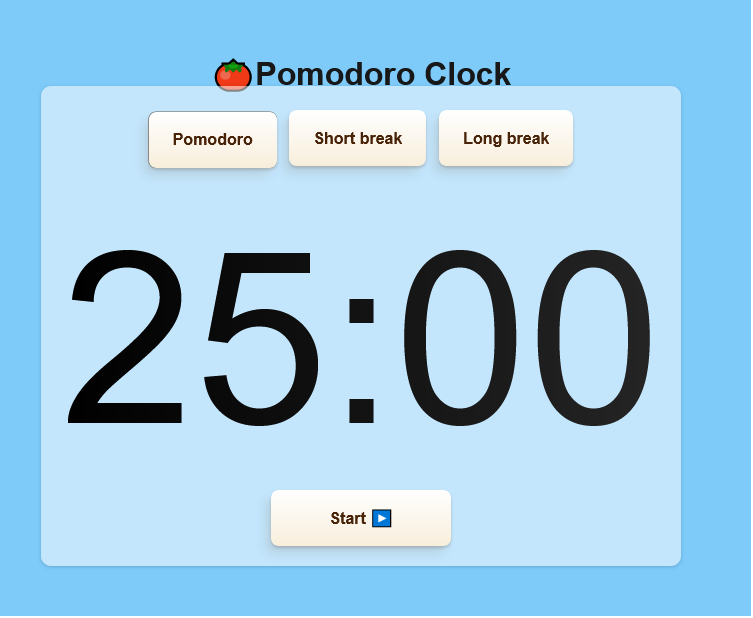
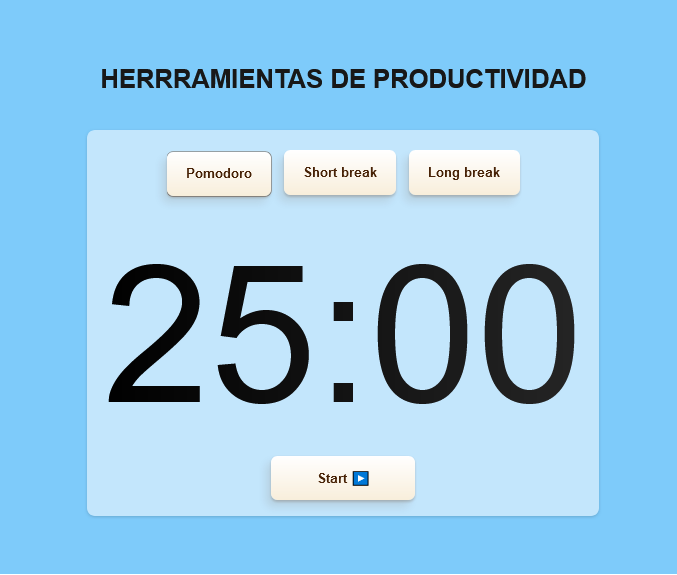
modificados codigos

diff --git a/styles_pomodoro.css b/styles_pomodoro.css
@@ -1,5 +1,22 @@
 
 
+html {
+  background:black;
+  background-image: url(https://img.freepik.com/vector-gratis/vector-fondo-hermoso-textura-acuarela-amarillo-suave-moderno_1055-12605.jpg?w=2000);
+  background-repeat: no-repeat;
+  background-size: cover;
+  min-height: 100vh;
+}
+
+
+body {
+  background-color: black;
+  font-family: Arial, Helvetica, sans-serif;
+  display: flex;
+
+}
+
+
 :root {
   --pomodoro: #7ecbfa;
   --shortBreak: #fadbaf;
@@ -126,80 +143,6 @@
   display: none;
 }
 
-
-@media screen and (max-width: 664px) {
-  .clock {
-    font-size: 8rem;
-    margin-top: 10px;
-    margin-bottom: 10px;
-  }
-
-  .main-button {
-    width: auto;
-  }
-
-  .main-headline {
-    top: 20%;
-    font-size: 25px;
-    width: 70%;
-  }
-
-  .sub-headline {
-    top: 26%;
-  }
-}
-
-@media screen and (max-width: 375px) {
-  .main-headline {
-    top: 10%;
-    font-size: 20px;
-    width: 70%;
-  }
-
-  .sub-headline {
-    top: 10%;
-  }
-
-  .clock {
-    margin-top: 10px;
-    margin-bottom: 10px;
-  }
-
-  .timer {
-    top: 50%;
-  }
-}
-
-
-@media screen and (max-width: 390px) {
-  .main-headline {
-    font-size: 20px;
-    width: 70%;
-    top: 15%;
-  }
-
-  .sub-headline {
-    top: 28%;
-  }
-
-  .clock {
-    margin-top: 10px;
-    margin-bottom: 10px;
-  }
-
-  .timer {
-    top: 60%;
-  }
-
-  .mode-button {
-    margin-bottom: 5px;
-    margin-top: 5px;
-  }
-
- 
-}
-
-
 footer {
   color: rgb(37, 37, 37);
   font-size: 12px;
@@ -213,11 +156,3 @@ footer {
 }
 
 
-
-a,
-a:visited,
-a:hover,
-a:active {
-  color: inherit;
-  text-decoration: none;
-}

diff --git a/styles.css b/styles.css
@@ -1,37 +1,32 @@
 
 html {
-  box-sizing: border-box;
-  height: 100%;
+  background:black;
+  background-image: url(https://img.freepik.com/vector-gratis/vector-fondo-hermoso-textura-acuarela-amarillo-suave-moderno_1055-12605.jpg?w=2000);
+  background-repeat: no-repeat;
+  background-size: cover;
+  min-height: 100vh;
 }
 
 
 body {
-  background-color: var(--pomodoro);
-  transition: background-color 1s ease;
+  background-color: black;
   font-family: Arial, Helvetica, sans-serif;
-  user-select: none;
   display: flex;
 
 }
 
-/*Etiqueta HTML progress
-https://developer.mozilla.org/es/docs/Web/HTML/Element/progress
-*/
-progress {
-  border-radius: 2px;
+
+
+footer {
+  color: rgb(37, 37, 37);
+  font-size: 12px;
+  padding: 10px;
+  text-align: center;
+  position: absolute;
+  left: 0;
+  right: 0;
+  bottom: 0;
   width: 100%;
-  height: 12px;
-  position: fixed;
-  top: 0;
-}
-
-progress::-webkit-progress-bar {
-  background-color: rgba(0, 0, 0, 0.1);
-  ;
-}
-
-progress::-webkit-progress-value {
-  background-color: #000000;
 }
 
 

diff --git a/index.html b/index.html
@@ -20,10 +20,9 @@
     </header>    
     <nav>
         <a href="index.html">Técnica Pomodoro</a>
-        <a href="#">IR SECCIÓN 3</a>
+        <a href="index_ToDoList.html">Lista de tareas</a>
     </nav>
     <section class="app">      
-     <progress id="js-progress" value="0"></progress>
      <div class="progress-bar"></div>
      <div class="timer">
       <div class="button-group mode-buttons" id="js-mode-buttons">

diff --git a/README.md b/README.md
@@ -17,9 +17,9 @@ Puedes ver la aplicación en funcionamiento <a href="https://proyectosprogramaci
 ![Imagen del reloj pomodoro](imagenReloj.png)
 
 ## Características
-- **Reloj pomodoro**: Muestra un reloj que permite gestionar el tiempo trabajando en intervalos de 25 minutos, sin interrupción ni distracciones.
+- **Reloj pomodoro**: muestra un reloj que permite gestionar el tiempo trabajando en intervalos de 25 minutos, sin interrupción ni distracciones.
 - **Lista de tareas pendientes**:  es una lista de cosas por hacer.
-- **Formuario**:documento elaborado para que un usuario introduzca datos estructurados en las zonas correspondientes, para ser almacenados y procesados posteriormente.
+- **Formuario**:  documento elaborado para que un usuario introduzca datos estructurados en las zonas correspondientes, para ser almacenados y procesados posteriormente.
 
 
 ## Tecnologías
